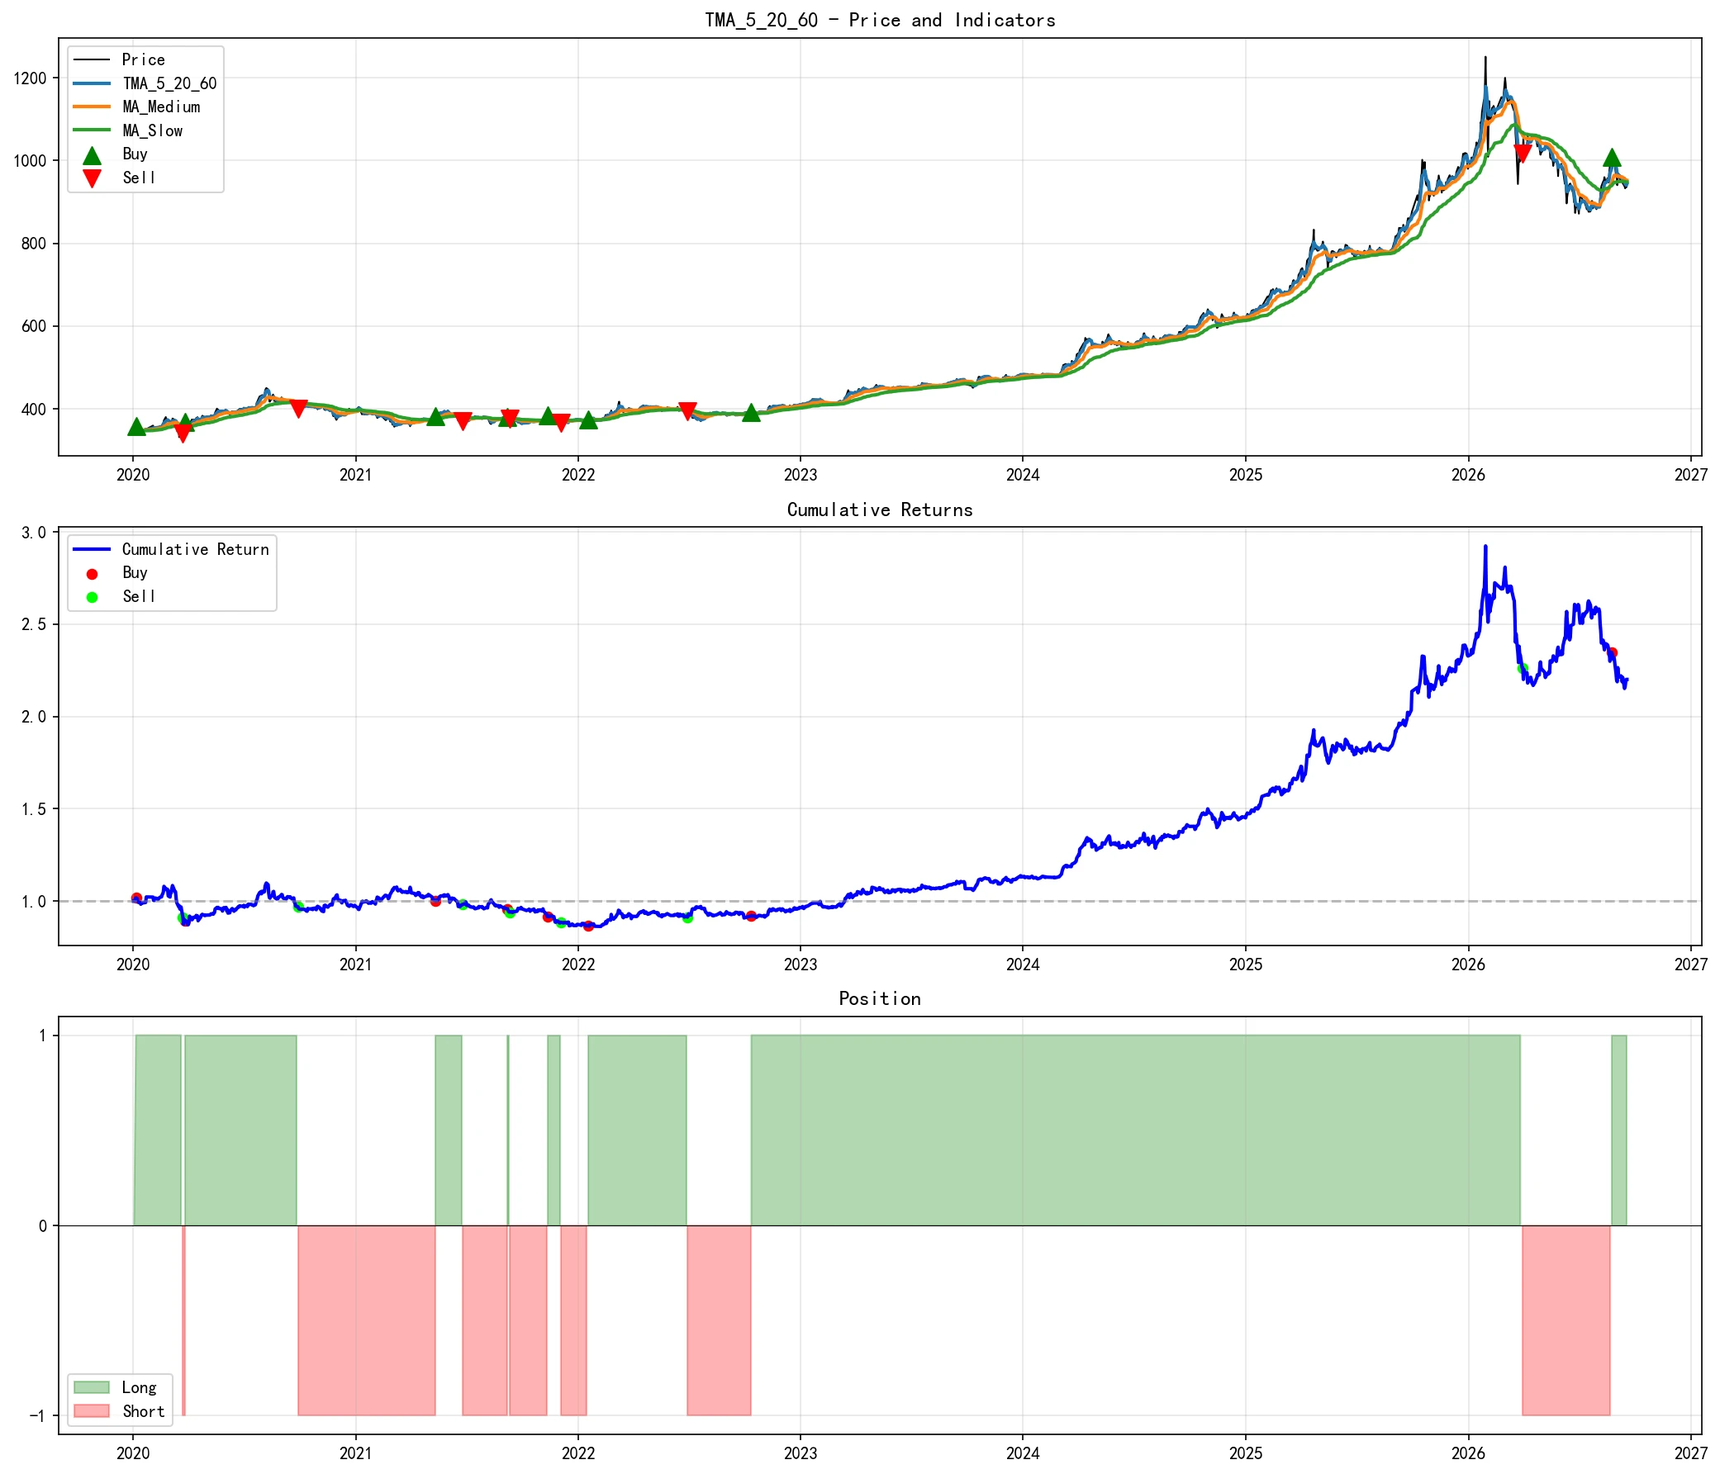
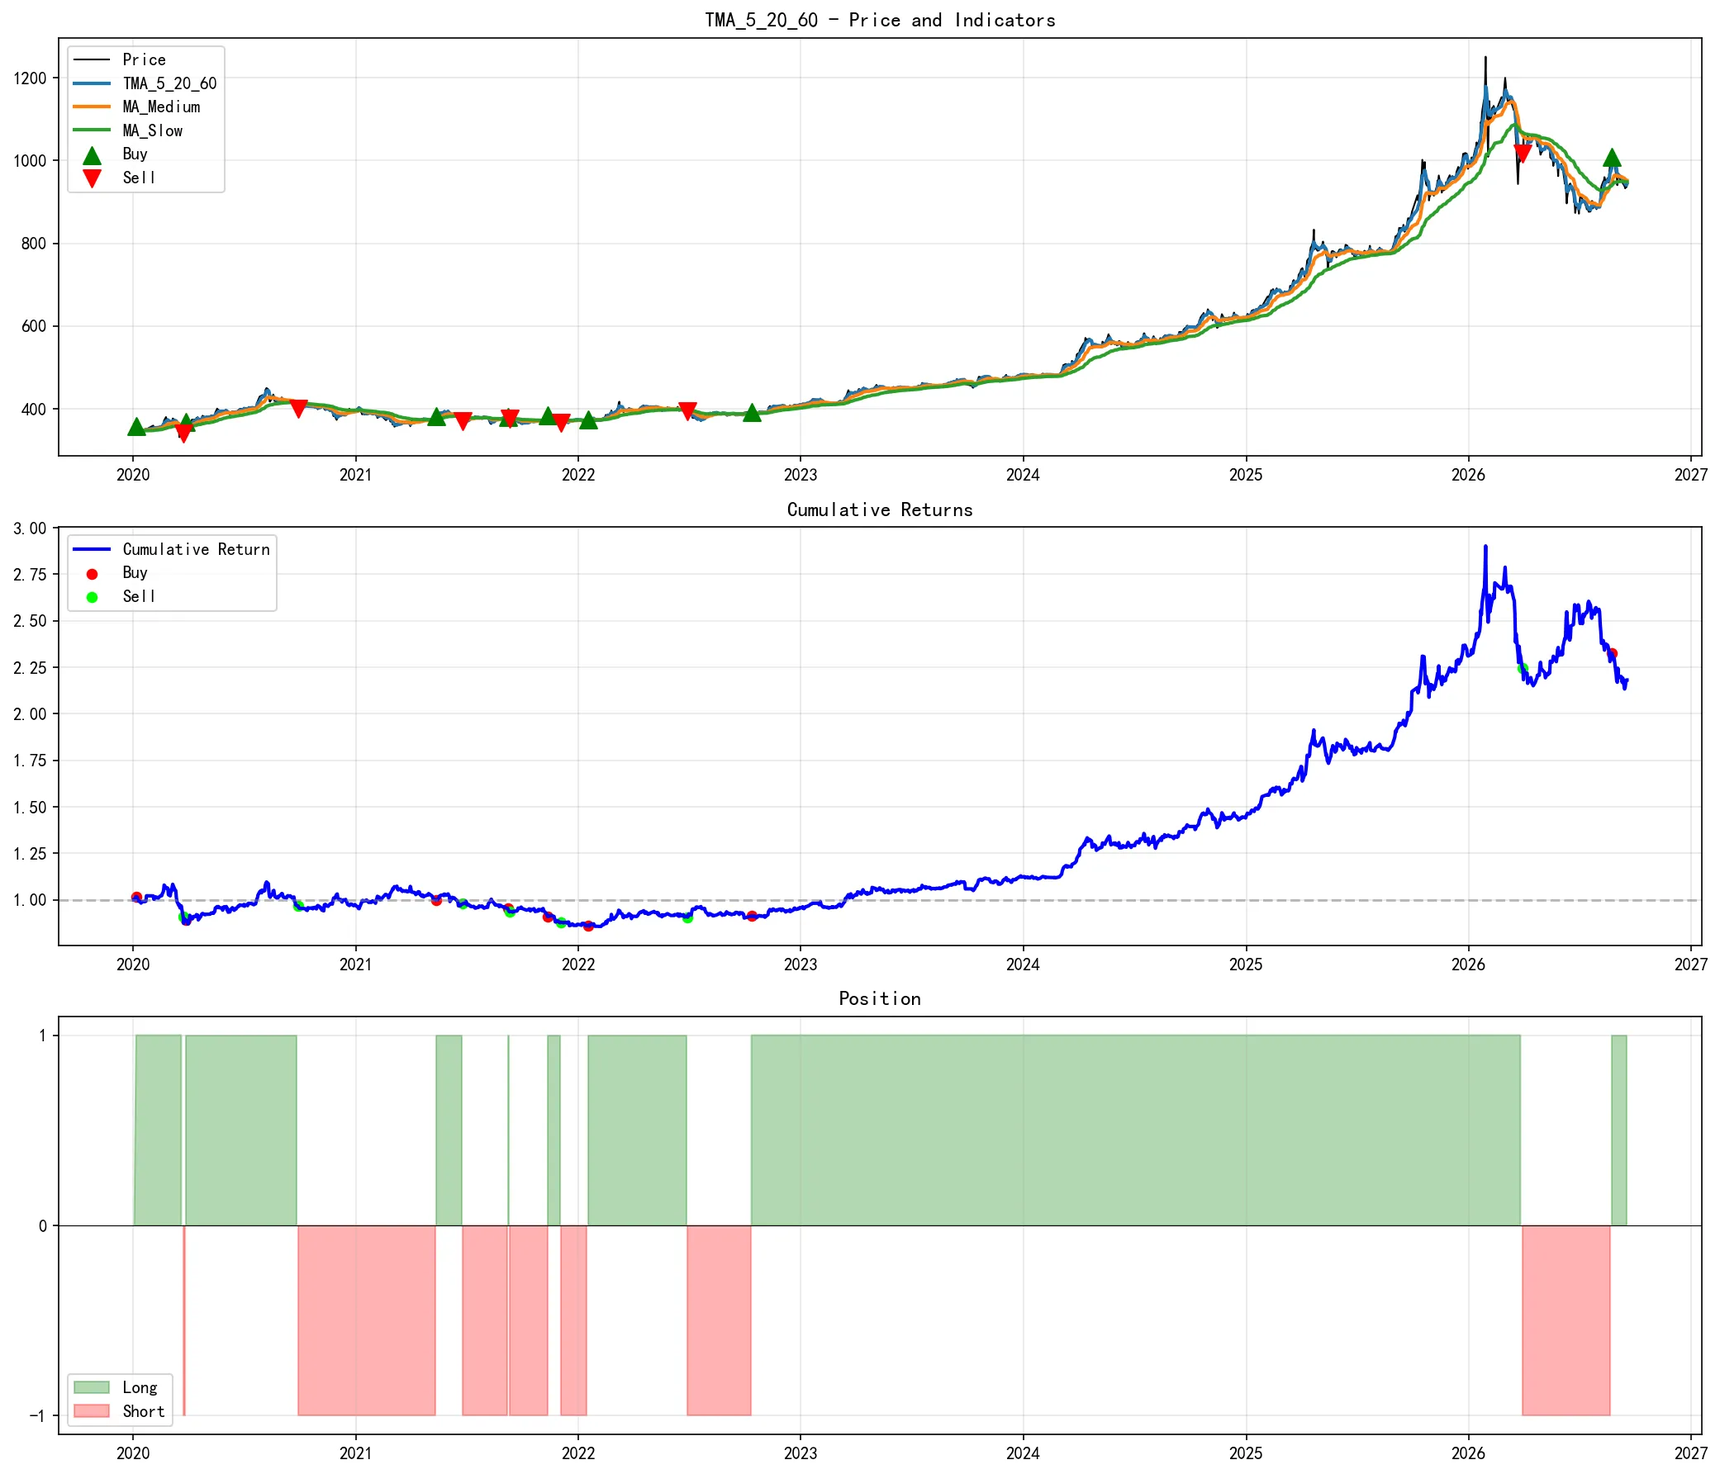
data: publish 3bps net strategy returns, 9-column table; frontend P2 fixes
- performance table: net of 3 bps per-side costs (annotated), + annualized volatility and Sharpe columns
- stat cards corrected: 69 symbols, 6.7yr backtest window (was 68 / 5yr)
- add rel=noopener to 2 external links; sitemap += a11y/devtools/progress; guard lightbox close btn

Changed region(s): [[0.1249, 0.5854, 0.281, 0.6162], [0.1249, 0.3697, 0.1561, 0.4006], [0.0624, 0.5854, 0.0937, 0.6162]]

diff --git a/project-quant-trading.html b/project-quant-trading.html
@@ -65,15 +65,15 @@
           <div class="stat-label"><span data-lang="cn">策略算法</span><span data-lang="en">Strategies</span></div>
         </div>
         <div class="stat-card">
-          <div class="stat-number">68</div>
+          <div class="stat-number">69</div>
           <div class="stat-label"><span data-lang="cn">商品品种</span><span data-lang="en">Symbols</span></div>
         </div>
         <div class="stat-card">
-          <div class="stat-number">5<span style="font-size:1.2rem">yr</span></div>
+          <div class="stat-number">6.7<span style="font-size:1.2rem">yr</span></div>
           <div class="stat-label"><span data-lang="cn">回测周期</span><span data-lang="en">Backtest Period</span></div>
         </div>
         <div class="stat-card">
-          <div class="stat-number">162<span style="font-size:1.2rem">%</span></div>
+          <div class="stat-number">160<span style="font-size:1.2rem">%</span></div>
           <div class="stat-label"><span data-lang="cn">最高累积收益</span><span data-lang="en">Best Cumulative Return</span></div>
         </div>
       </div>
@@ -118,17 +118,19 @@
     <div class="container">
       <h2 class="section-title fade-in" style="text-align:center"><span data-lang="cn">策略性能对比</span><span data-lang="en">Strategy Performance</span></h2>
       <p class="section-subtitle fade-in" style="text-align:center">
-        <span data-lang="cn">基于 AUFI.WI 上海期货交易所黄金 Wind 指数 5 年历史数据回测</span>
-        <span data-lang="en">Backtested on AUFI.WI (Shanghai Futures Exchange Gold Index), 5-year historical data</span>
+        <span data-lang="cn">基于 AUFI.WI 上海期货交易所黄金 Wind 指数 2020 年至今数据回测</span>
+        <span data-lang="en">Backtested on AUFI.WI (Shanghai Futures Exchange Gold Index), data since 2020</span>
       </p>
       <div class="table-wrapper fade-in">
-        <table class="perf-table">
-          <caption><span data-lang="cn">策略性能对比：AUFI.WI 黄金指数回测，信号日 T 收盘生成、T+1 日开盘执行</span><span data-lang="en">Strategy performance on AUFI.WI gold index; signals at close on day T, executed at open on T+1</span></caption>
+        <table class="perf-table" id="perf-table">
+          <caption><span data-lang="cn">策略性能对比：AUFI.WI 黄金指数回测，信号日 T 收盘生成、T+1 日开盘执行，收益已扣单边 3bps 交易成本</span><span data-lang="en">Strategy performance on AUFI.WI gold index; signals at close on day T, executed at open on T+1; returns net of 3 bps per-side transaction costs</span></caption>
           <thead>
             <tr>
               <th scope="col"><span data-lang="cn">策略</span><span data-lang="en">Strategy</span></th>
               <th scope="col"><span data-lang="cn">累积收益</span><span data-lang="en">Cum. Return</span></th>
               <th scope="col"><span data-lang="cn">年化收益</span><span data-lang="en">Ann. Return</span></th>
+              <th scope="col"><span data-lang="cn">年化波动率</span><span data-lang="en">Ann. Vol.</span></th>
+              <th scope="col"><span data-lang="cn">Sharpe</span><span data-lang="en">Sharpe</span></th>
               <th scope="col"><span data-lang="cn">最大回撤</span><span data-lang="en">Max DD</span></th>
               <th scope="col"><span data-lang="cn">交易次数</span><span data-lang="en">Trades</span></th>
               <th scope="col"><span data-lang="cn">胜率</span><span data-lang="en">Win Rate</span></th>
@@ -138,93 +140,113 @@
           <tbody>
             <tr>
               <td><strong>TMA (10/30/90)</strong></td>
-              <td class="highlight">161.65%</td>
-              <td class="highlight">15.41%</td>
-              <td class="negative">-25.73%</td>
+              <td class="highlight">160.16%</td>
+              <td class="highlight">15.31%</td>
+              <td class="highlight">16.51%</td>
+              <td class="highlight">0.98</td>
+              <td class="negative">-25.99%</td>
               <td>10</td>
-              <td>50.00%</td>
-              <td>16.29%</td>
-            </tr>
-            <tr>
-              <td><strong>EWMA Long-Only</strong></td>
-              <td class="highlight">124.95%</td>
-              <td class="highlight">12.84%</td>
-              <td class="negative">-14.82%</td>
-              <td>92</td>
-              <td>47.83%</td>
-              <td>0.99%</td>
+              <td class="highlight">50.00%</td>
+              <td class="highlight">16.29%</td>
             </tr>
             <tr>
               <td><strong>TMA (5/20/60)</strong></td>
-              <td class="highlight">120.11%</td>
-              <td class="highlight">12.48%</td>
-              <td class="negative">-26.41%</td>
+              <td class="highlight">118.19%</td>
+              <td class="highlight">12.33%</td>
+              <td class="highlight">16.52%</td>
+              <td class="highlight">0.81</td>
+              <td class="negative">-26.50%</td>
               <td>15</td>
-              <td>40.00%</td>
-              <td>9.60%</td>
+              <td class="highlight">40.00%</td>
+              <td class="highlight">9.60%</td>
             </tr>
             <tr>
-              <td><strong>EWMA Long-Short</strong></td>
-              <td class="highlight">76.99%</td>
-              <td class="highlight">8.88%</td>
-              <td class="negative">-19.29%</td>
-              <td>185</td>
-              <td>37.30%</td>
-              <td>0.38%</td>
+              <td><strong>EWMA Long-Only</strong></td>
+              <td class="highlight">112.87%</td>
+              <td class="highlight">11.92%</td>
+              <td class="highlight">13.63%</td>
+              <td class="highlight">0.93</td>
+              <td class="negative">-16.24%</td>
+              <td>92</td>
+              <td class="highlight">47.83%</td>
+              <td class="highlight">0.99%</td>
             </tr>
             <tr>
               <td><strong>Donchian (50)</strong></td>
-              <td class="highlight">75.70%</td>
-              <td class="highlight">8.76%</td>
-              <td class="negative">-27.76%</td>
+              <td class="highlight">74.39%</td>
+              <td class="highlight">8.64%</td>
+              <td class="highlight">16.52%</td>
+              <td class="highlight">0.6</td>
+              <td class="negative">-28.02%</td>
               <td>13</td>
-              <td>46.15%</td>
-              <td>7.23%</td>
+              <td class="highlight">46.15%</td>
+              <td class="highlight">7.23%</td>
             </tr>
             <tr>
               <td><strong>Donchian (20)</strong></td>
-              <td class="highlight">70.86%</td>
-              <td class="highlight">8.31%</td>
-              <td class="negative">-22.67%</td>
+              <td class="highlight">68.56%</td>
+              <td class="highlight">8.09%</td>
+              <td class="highlight">16.53%</td>
+              <td class="highlight">0.57</td>
+              <td class="negative">-22.77%</td>
               <td>23</td>
-              <td>47.83%</td>
-              <td>2.80%</td>
+              <td class="highlight">47.83%</td>
+              <td class="highlight">2.80%</td>
+            </tr>
+            <tr>
+              <td><strong>EWMA Long-Short</strong></td>
+              <td class="highlight">58.44%</td>
+              <td class="highlight">7.10%</td>
+              <td class="highlight">16.50%</td>
+              <td class="highlight">0.51</td>
+              <td class="negative">-19.67%</td>
+              <td>185</td>
+              <td class="highlight">37.30%</td>
+              <td class="highlight">0.38%</td>
             </tr>
             <tr>
               <td><strong>MACD</strong></td>
-              <td class="highlight">24.93%</td>
-              <td class="highlight">3.37%</td>
-              <td class="negative">-23.24%</td>
+              <td class="highlight">15.17%</td>
+              <td class="highlight">2.13%</td>
+              <td class="highlight">16.54%</td>
+              <td class="highlight">0.22</td>
+              <td class="negative">-23.56%</td>
               <td>136</td>
-              <td>37.50%</td>
-              <td>0.24%</td>
+              <td class="highlight">37.50%</td>
+              <td class="highlight">0.24%</td>
             </tr>
             <tr>
               <td><strong>RSI</strong></td>
-              <td class="negative">-36.89%</td>
-              <td class="negative">-6.63%</td>
-              <td class="negative">-62.42%</td>
+              <td class="negative">-37.29%</td>
+              <td class="negative">-6.72%</td>
+              <td class="highlight">16.37%</td>
+              <td class="negative">-0.36</td>
+              <td class="negative">-62.49%</td>
               <td>11</td>
-              <td>54.55%</td>
-              <td>-5.42%</td>
+              <td class="highlight">54.55%</td>
+              <td class="negative">-5.42%</td>
             </tr>
             <tr>
               <td><strong>Bollinger (20, 2.0)</strong></td>
-              <td class="negative">-46.43%</td>
-              <td class="negative">-8.88%</td>
-              <td class="negative">-59.61%</td>
+              <td class="negative">-47.24%</td>
+              <td class="negative">-9.09%</td>
+              <td class="highlight">16.53%</td>
+              <td class="negative">-0.52</td>
+              <td class="negative">-60.14%</td>
               <td>26</td>
-              <td>57.69%</td>
-              <td>-2.21%</td>
+              <td class="highlight">57.69%</td>
+              <td class="negative">-2.21%</td>
             </tr>
             <tr>
               <td><strong>Bollinger (20, 1.5)</strong></td>
-              <td class="negative">-62.37%</td>
-              <td class="negative">-13.55%</td>
-              <td class="negative">-69.09%</td>
+              <td class="negative">-63.12%</td>
+              <td class="negative">-13.81%</td>
+              <td class="highlight">16.51%</td>
+              <td class="negative">-0.85</td>
+              <td class="negative">-69.64%</td>
               <td>34</td>
-              <td>52.94%</td>
-              <td>-2.75%</td>
+              <td class="highlight">52.94%</td>
+              <td class="negative">-2.75%</td>
             </tr>
           </tbody>
         </table>
@@ -244,43 +266,43 @@
       <div class="gallery">
         <div class="gallery-item fade-in">
           <picture><source srcset="assets/plots/TMA_5_20_60.webp" type="image/webp"><img src="assets/plots/TMA_5_20_60.png" alt="TMA 5/20/60" width="2082" height="1785" loading="lazy" decoding="async"></picture>
-          <div class="gallery-caption">TMA (5/20/60) — <span data-lang="cn">累积收益 120.11%</span><span data-lang="en">Cumulative Return 120.11%</span></div>
+          <div class="gallery-caption">TMA (5/20/60) — <span data-lang="cn">累积收益 118.19%</span><span data-lang="en">Cumulative Return 118.19%</span></div>
         </div>
         <div class="gallery-item fade-in">
           <picture><source srcset="assets/plots/TMA_10_30_90.webp" type="image/webp"><img src="assets/plots/TMA_10_30_90.png" alt="TMA 10/30/90" width="2082" height="1785" loading="lazy" decoding="async"></picture>
-          <div class="gallery-caption">TMA (10/30/90) — <span data-lang="cn">累积收益 161.65%</span><span data-lang="en">Cumulative Return 161.65%</span></div>
+          <div class="gallery-caption">TMA (10/30/90) — <span data-lang="cn">累积收益 160.16%</span><span data-lang="en">Cumulative Return 160.16%</span></div>
         </div>
         <div class="gallery-item fade-in">
           <picture><source srcset="assets/plots/EWMA_LONG_ONLY_30.webp" type="image/webp"><img src="assets/plots/EWMA_LONG_ONLY_30.png" alt="EWMA Long-Only" width="2082" height="1785" loading="lazy" decoding="async"></picture>
-          <div class="gallery-caption">EWMA Long-Only — <span data-lang="cn">累积收益 124.95%</span><span data-lang="en">Cumulative Return 124.95%</span></div>
+          <div class="gallery-caption">EWMA Long-Only — <span data-lang="cn">累积收益 112.87%</span><span data-lang="en">Cumulative Return 112.87%</span></div>
         </div>
         <div class="gallery-item fade-in">
           <picture><source srcset="assets/plots/DONCHIAN_20.webp" type="image/webp"><img src="assets/plots/DONCHIAN_20.png" alt="Donchian 20" width="2082" height="1785" loading="lazy" decoding="async"></picture>
-          <div class="gallery-caption">Donchian (20) — <span data-lang="cn">累积收益 70.86%</span><span data-lang="en">Cumulative Return 70.86%</span></div>
+          <div class="gallery-caption">Donchian (20) — <span data-lang="cn">累积收益 68.56%</span><span data-lang="en">Cumulative Return 68.56%</span></div>
         </div>
         <div class="gallery-item fade-in">
           <picture><source srcset="assets/plots/DONCHIAN_50.webp" type="image/webp"><img src="assets/plots/DONCHIAN_50.png" alt="Donchian 50" width="2082" height="1785" loading="lazy" decoding="async"></picture>
-          <div class="gallery-caption">Donchian (50) — <span data-lang="cn">累积收益 75.70%</span><span data-lang="en">Cumulative Return 75.70%</span></div>
+          <div class="gallery-caption">Donchian (50) — <span data-lang="cn">累积收益 74.39%</span><span data-lang="en">Cumulative Return 74.39%</span></div>
         </div>
         <div class="gallery-item fade-in">
           <picture><source srcset="assets/plots/EWMA_30.webp" type="image/webp"><img src="assets/plots/EWMA_30.png" alt="EWMA Long-Short" width="2082" height="1785" loading="lazy" decoding="async"></picture>
-          <div class="gallery-caption">EWMA Long-Short — <span data-lang="cn">累积收益 76.99%</span><span data-lang="en">Cumulative Return 76.99%</span></div>
+          <div class="gallery-caption">EWMA Long-Short — <span data-lang="cn">累积收益 58.44%</span><span data-lang="en">Cumulative Return 58.44%</span></div>
         </div>
         <div class="gallery-item fade-in">
           <picture><source srcset="assets/plots/MACD_12_26_9.webp" type="image/webp"><img src="assets/plots/MACD_12_26_9.png" alt="MACD" width="2084" height="1785" loading="lazy" decoding="async"></picture>
-          <div class="gallery-caption">MACD (12/26/9) — <span data-lang="cn">累积收益 24.93%</span><span data-lang="en">Cumulative Return 24.93%</span></div>
+          <div class="gallery-caption">MACD (12/26/9) — <span data-lang="cn">累积收益 15.17%</span><span data-lang="en">Cumulative Return 15.17%</span></div>
         </div>
         <div class="gallery-item fade-in">
           <picture><source srcset="assets/plots/RSI_14_30_70.webp" type="image/webp"><img src="assets/plots/RSI_14_30_70.png" alt="RSI" width="2085" height="1785" loading="lazy" decoding="async"></picture>
-          <div class="gallery-caption">RSI (14, 30/70) — <span data-lang="cn">累积收益 -36.89%</span><span data-lang="en">Cumulative Return -36.89%</span></div>
+          <div class="gallery-caption">RSI (14, 30/70) — <span data-lang="cn">累积收益 -37.29%</span><span data-lang="en">Cumulative Return -37.29%</span></div>
         </div>
         <div class="gallery-item fade-in">
           <picture><source srcset="assets/plots/BOLLINGER_20_2.webp" type="image/webp"><img src="assets/plots/BOLLINGER_20_2.png" alt="Bollinger 2.0" width="2082" height="1785" loading="lazy" decoding="async"></picture>
-          <div class="gallery-caption">Bollinger (20, 2.0) — <span data-lang="cn">累积收益 -46.43%</span><span data-lang="en">Cumulative Return -46.43%</span></div>
+          <div class="gallery-caption">Bollinger (20, 2.0) — <span data-lang="cn">累积收益 -47.24%</span><span data-lang="en">Cumulative Return -47.24%</span></div>
         </div>
         <div class="gallery-item fade-in">
           <picture><source srcset="assets/plots/BOLLINGER_20_1.5.webp" type="image/webp"><img src="assets/plots/BOLLINGER_20_1.5.png" alt="Bollinger 1.5" width="2082" height="1785" loading="lazy" decoding="async"></picture>
-          <div class="gallery-caption">Bollinger (20, 1.5) — <span data-lang="cn">累积收益 -62.37%</span><span data-lang="en">Cumulative Return -62.37%</span></div>
+          <div class="gallery-caption">Bollinger (20, 1.5) — <span data-lang="cn">累积收益 -63.12%</span><span data-lang="en">Cumulative Return -63.12%</span></div>
         </div>
       </div>
     </div>
@@ -327,7 +349,7 @@
         <span data-lang="cn">完整代码已托管在 GitHub，欢迎交流讨论</span>
         <span data-lang="en">Full source code on GitHub — contributions and discussions welcome</span>
       </p>
-      <a href="https://github.com/jiqinghuang/trading_strategy" target="_blank" class="btn btn-primary fade-in">
+      <a href="https://github.com/jiqinghuang/trading_strategy" target="_blank" rel="noopener" class="btn btn-primary fade-in">
         GitHub &rarr;
       </a>
       <p class="fade-in" style="margin-top:20px">

diff --git a/project-margin-model.html b/project-margin-model.html
@@ -239,7 +239,7 @@
         <span data-lang="cn">完整代码已托管在 GitHub，包含数据处理器、压力测试和回测模块</span>
         <span data-lang="en">Full source code on GitHub — data processor, stress test, and backtest modules</span>
       </p>
-      <a href="https://github.com/jiqinghuang/margin_model" target="_blank" class="btn btn-primary fade-in">
+      <a href="https://github.com/jiqinghuang/margin_model" target="_blank" rel="noopener" class="btn btn-primary fade-in">
         GitHub &rarr;
       </a>
       <p class="fade-in" style="margin-top:20px">

diff --git a/js/main.js b/js/main.js
@@ -186,7 +186,7 @@ document.addEventListener('DOMContentLoaded', () => {
       if (lastFocus && document.contains(lastFocus)) lastFocus.focus();
     };
 
-    lbClose.addEventListener('click', close);
+    if (lbClose) lbClose.addEventListener('click', close);
     lightbox.addEventListener('click', e => { if (e.target === lightbox) close(); });
     document.addEventListener('keydown', e => { if (e.key === 'Escape') close(); });
   }
